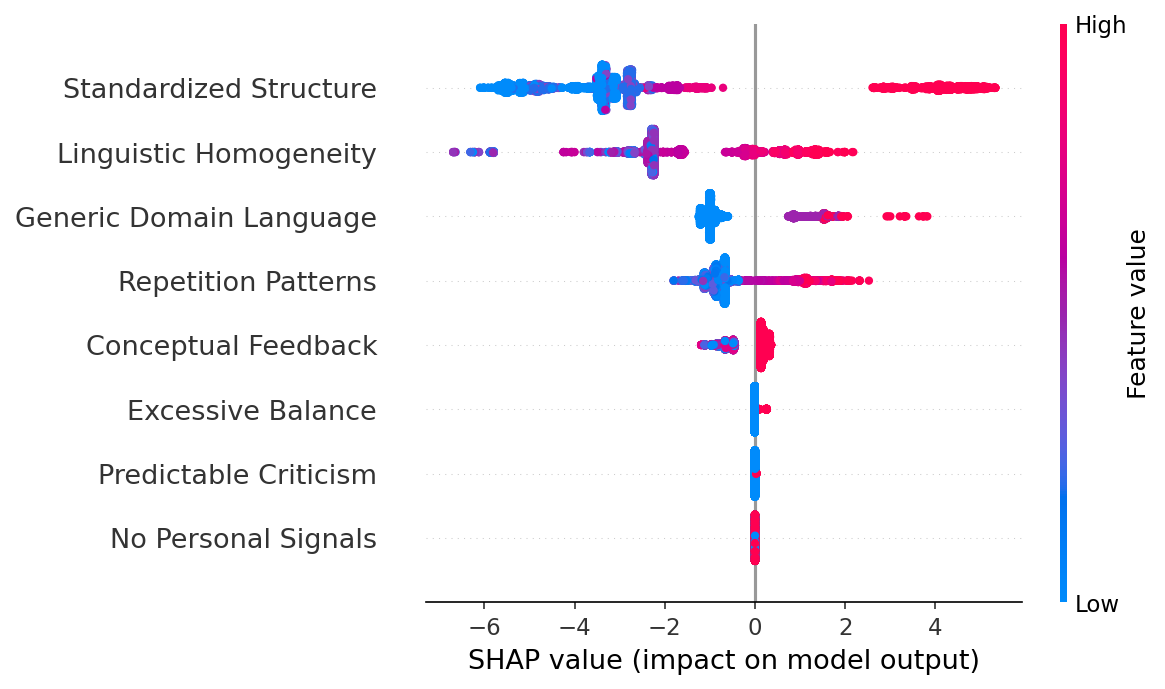
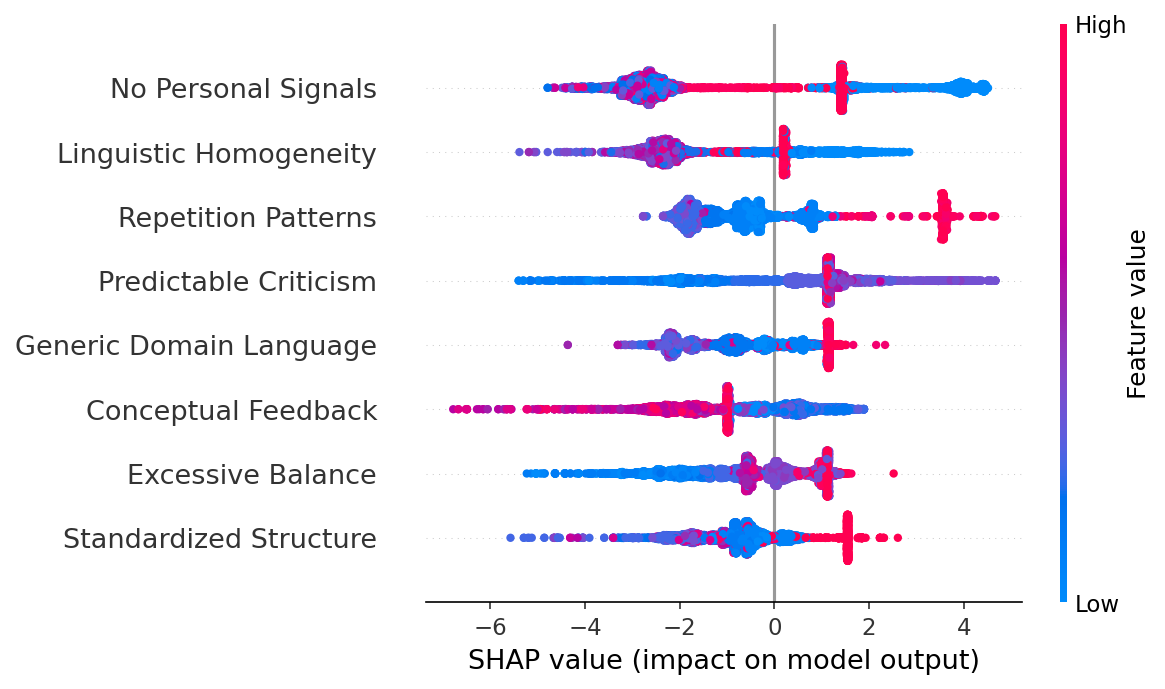
Fix merge conflicts: pin streamlit>=1.37.0+altair>=5, add SHAP fallback for LogisticRegression

diff --git a/streamlit_app/pages/1_Analyze_Review.py b/streamlit_app/pages/1_Analyze_Review.py
@@ -1,7 +1,12 @@
 """Page 1 — Analyze a single peer review."""
 
+import os
 import sys
+import warnings
 from pathlib import Path
+os.environ["TOKENIZERS_PARALLELISM"] = "false"
+warnings.filterwarnings("ignore", message=".*__path__.*")
+warnings.filterwarnings("ignore", category=FutureWarning)
 sys.path.insert(0, str(Path(__file__).parent.parent.parent / "src"))
 
 import numpy as np
@@ -275,7 +280,7 @@ proba = model.predict_proba(X)[0]
 ai_prob = float(proba[1])
 pred_label = "AI-Generated" if ai_prob > 0.5 else "Human"
 
-# SHAP
+# SHAP — use the right explainer for the model type
 import shap
 try:
     explainer = shap.TreeExplainer(model)

diff --git a/streamlit_app/Home.py b/streamlit_app/Home.py
@@ -2,8 +2,15 @@
 Home page — AI-Generated Peer Review Detection Framework
 """
 
+import os
 import sys
+import warnings
 from pathlib import Path
+
+# Suppress noisy warnings from transformers/torch
+os.environ["TOKENIZERS_PARALLELISM"] = "false"
+warnings.filterwarnings("ignore", message=".*__path__.*")
+warnings.filterwarnings("ignore", category=FutureWarning)
 
 # Add src to path so we can import pipeline modules
 sys.path.insert(0, str(Path(__file__).parent.parent / "src"))
